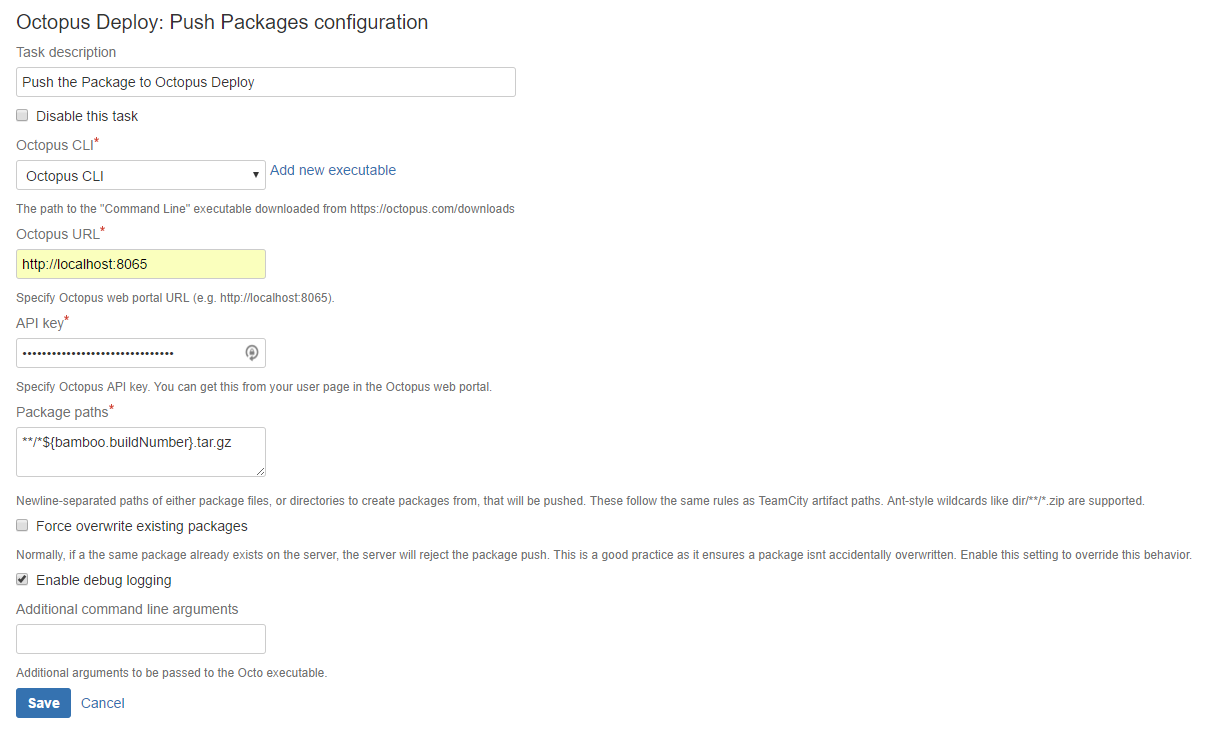
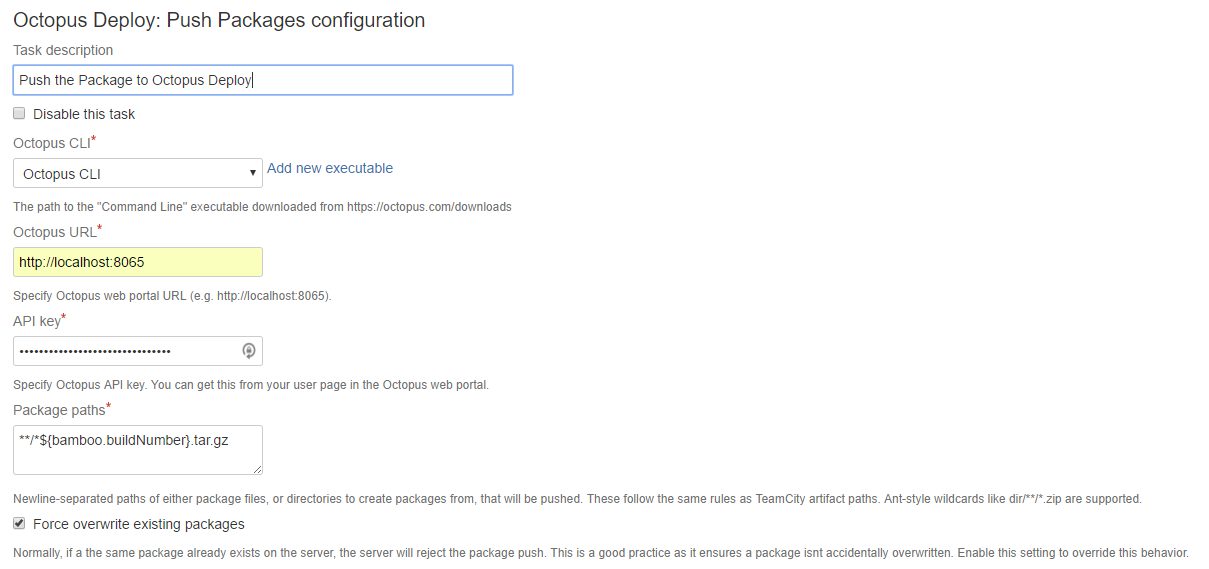
Working on documentation

Changed region(s): [[0.0, 0.0, 0.9793, 0.8366], [0.0, 0.8664, 0.9793, 0.9859], [0.2142, 0.2091, 0.3366, 0.239]]

diff --git a/docs/BambooPlugin.md b/docs/BambooPlugin.md
@@ -1,4 +1,4 @@
-The Octopus Deploy add-on for Bamboo allows packages to be uploaded to an Octopus Deploy server, as well as creating, deploying and promoting releases to your [environments](https://octopus.com/docs/key-concepts/environments). The add-on does this by running the [Octopus Deploy Command Line tool](https://octopus.com/docs/api-and-integration/octo.exe-command-line).
+The Octopus Deploy add-on for Bamboo allows packages to be uploaded to an Octopus Deploy server, as well as creating, deploying and promoting releases to your Octopus Deploy [environments](https://octopus.com/docs/key-concepts/environments). The add-on does this by running the [Octopus Deploy Command Line tool](https://octopus.com/docs/api-and-integration/octo.exe-command-line).
 
 # Getting Started
 
@@ -10,18 +10,19 @@ To verify that the command line tool can be run, execute it from a terminal. Whe
 
 # Installing the Add-on
 
-Following the instructions at [Installing add-ons](https://confluence.atlassian.com/display/UPM/Installing+add-ons) to install the Octopus Deploy Bamboo add-on.
+Follow the instructions at [Installing add-ons](https://confluence.atlassian.com/display/UPM/Installing+add-ons) to install the Octopus Deploy Bamboo add-on.
 
 TODO: Include some instructions about finding the Octopus Deploy add-on here (i.e. what do you search for).
 
 # A Typical Workflow for Pushing Packages and Deploying Releases
 
-There are a number of typical steps that are required to push a package to the Octopus Deploy and deploy a release:
+There are a number of typical steps that are required to push a package to Octopus Deploy and deploy a release:
 
 1. Build the application with Bamboo.
-2. Create an archive with a tool like tar or 7zip following the Octopus Deploy [versioning requirements](https://octopus.com/docs/packaging-applications/versioning-in-octopus-deploy).
-3. Push the package to Octopus Deploy using the add-on.
-4. Create and deploy a release.
+2. Create an archive with a tool like tar or 7zip complying with the Octopus Deploy [versioning requirements](https://octopus.com/docs/packaging-applications/versioning-in-octopus-deploy).
+3. Push the package to Octopus Deploy.
+4. Create a release in Octopus Deploy.
+5. Deploy a release with Octopus Deploy.
 
 Let's take a look at the steps that you could use to push a Java WAR file built with Maven to Octopus Deploy.
 
@@ -29,18 +30,18 @@ Let's take a look at the steps that you could use to push a Java WAR file built 
 We'll assume that there is already a Bamboo build plan in place that produces a WAR file using Maven. The [Bamboo Documentation](https://confluence.atlassian.com/bamboo/maven-289277038.html) describes how this is done.
 
 ## 2. Create the Package
-With the WAR file built, we need to add it to an archive that follows Octopus Deploy [versioning requirements](https://octopus.com/docs/packaging-applications/versioning-in-octopus-deploy). In this example we will stick to a simple Major.Minor.Patch semver format.
+With the WAR file built, we need to add it to an archive that complies with the Octopus Deploy [versioning requirements](https://octopus.com/docs/packaging-applications/versioning-in-octopus-deploy). In this example we will stick to a simple `AppName.Major.Minor.Patch` semver format.
 
-Creating the archive is done with a [Bamboo Script task](https://confluence.atlassian.com/bamboo/script-289277046.html) that calls an archive tool to generate an appropriately named archive file. Octopus Deploy supports a number of package types. See [Supported Packages in Octopus Deploy](https://octopus.com/docs/packaging-applications/supported-packages) for more information.
+Creating the archive is done with a [Bamboo Script task](https://confluence.atlassian.com/bamboo/script-289277046.html) that calls an archive tool to generate an appropriately named archive file. Octopus Deploy supports a number of package types; see [Supported Packages in Octopus Deploy](https://octopus.com/docs/packaging-applications/supported-packages) for more information.
 
-For Bamboo build agents hosts on a Linux server, the script body will call `tar` to create the archive. Note that we first enter the `target` directory and then create the archive. This is required to ensure the resulting gzip file does not include a `target` directory.
+For Bamboo build agents hosted on a Linux server, the script body can call `tar` to create the archive. Note that we first enter the `target` directory and then create the archive. This is required to ensure the resulting gzip file does not include the `target` directory, just the WAR file.
 
 ```
 cd target
 tar -czf ../myapplication.0.0.${bamboo.buildNumber}.tar.gz *.war
 ```
 
-For Bamboo build agents hosted on a Windows server, you may want to use a tool like [7Zip](http://www.7-zip.org/download.html) to build the archive, in which case the following command can be used. Note the leading `./` before the path to the war file is significant, as it removes the `target` directory from the resulting zip file. See [this discussion](https://stackoverflow.com/questions/10753667/compressing-only-files-using-7z-without-preserving-the-path) on StackOverflow for more information.
+For Bamboo build agents hosted on a Windows server, you may want to use a tool like [7Zip](http://www.7-zip.org/download.html) to build the archive, in which case the following command can be used. Note the leading `./` before the path to the WAR file is significant, as it removes the `target` directory from the resulting zip file. See [this discussion](https://stackoverflow.com/questions/10753667/compressing-only-files-using-7z-without-preserving-the-path) on StackOverflow for more information.
 
 ```
 "C:\Program Files\7-Zip\7z.exe" a -tzip myapplication.0.0.%bamboo_buildNumber%.zip ./target/*.war
@@ -50,19 +51,29 @@ In both cases we have used the variable `bamboo.buildNumber` to generate a packa
 
 ## 3. Push the Packages
 
-Pushing the package to Octopus Deploy is done with the `Octopus Deploy: Push Packages` task. In addition to the [common configuration fields](#commonConfiguration), this task requires the paths to the packages to be pushed.
+Pushing the package to Octopus Deploy is done with the `Octopus Deploy: Push Packages` task. In addition to the [common configuration fields](#commonConfiguration), this task requires the paths to the packages to be pushed and forcing package uploads.
+
+This step runs the [push command](https://octopus.com/docs/api-and-integration/octo.exe-command-line/pushing-packages) on the command line tool.
 
 ### Package paths
 
-The `Package paths` field defines the [Ant paths](https://ant.apache.org/manual/dirtasks.html) that are used to match packages to be pushed to Octopus Deploy. The Ant path `**/*${bamboo.buildNumber}.tar.gz` mathes the gzip package created with `tar`, while the path `**/*${bamboo.buildNumber}.zip` matches the zip file created with `7z`.
+The `Package paths` field defines the [Ant paths](https://ant.apache.org/manual/dirtasks.html) that are used to match packages to be pushed to Octopus Deploy. The Ant path `**/*${bamboo.buildNumber}.tar.gz` mathes the gzip file created with `tar`, while the path `**/*${bamboo.buildNumber}.zip` matches the zip file created with `7z`.
 
-Note that it is recommended that the package paths defined here are specific to the build. While the Ant path `**/*.tar.gz` or `**/*.zip` do match the packages, they also match any old packages that might have been created in previous builds and not cleaned up. This means these less specific paths can result in old packages being uploaded, which is usually not the desired result.
+Note that it is recommended that the package paths defined here are specific to the build. While the Ant paths `**/*.tar.gz` and `**/*.zip` do match the packages, they also match any old packages that might have been created in previous builds and not cleaned up. This means these less specific paths can result in old packages being uploaded, which is usually not the desired result.
+
+### Force overwrite existing packages
+
+The `Force overwrite existing packages` option can be selected to allow existing packages to be overwritten.
+
+Tick this option, as it allows a build to be rebuilt and the new package to be pushed again without error.
 
 ![Push Package](https://github.com/OctopusDeploy/Octopus-Bamboo/blob/master/docs/PushPackage.PNG?raw=true)
 
 ## 4. Create a Release
 
-Creating (and optionally deploying) a release is done with the `Octopus Deploy: Create Release` task. In addition to the [common configuration fields](#commonConfiguration), this task requires the Octopus Deploy project to create release in, the version number of the release, and optionally specifying an environment to deploy the release to.
+Creating a release is done with the `Octopus Deploy: Create Release` task. In addition to the [common configuration fields](#commonConfiguration), this task requires the Octopus Deploy project to create the release for and the version number of the release.
+
+This steps runs the [create-release command](https://octopus.com/docs/api-and-integration/octo.exe-command-line/creating-releases) on the command line tool.
 
 ### Project
 
@@ -72,19 +83,29 @@ The `Project` field defines the name of the [Octopus Deploy project](https://oct
 
 The `Release Number` field defines the version number for the release.
 
-Although this field is optional, it is highly recommended that the release number be tied to the Bamboo build number e.g. `0.0.${bamboo.buildNumber}`. The reason for this is Bamboo allows you to rebuild old builds, and if the `Release number` is not defined it will be assigned a default version number in Octopus Deploy. This can lead to a situation where a build like number 10 in Bamboo is rebuilt, and release number like 0.0.128 is created in Octopus Deploy, which is almost certainly not the desired result.
+Although this field is optional, it is highly recommended that the release number be tied to the Bamboo build number e.g. `0.0.${bamboo.buildNumber}`. The reason for this is Bamboo allows you to rebuild old builds, and if the `Release number` is not defined it will be assigned a default version number in Octopus Deploy. This can lead to a situation where build number 10 in Bamboo is rebuilt, and release number like 0.0.128 is created in Octopus Deploy, which is almost certainly not the desired result.
 
 ### Environment(s)
 
 The `Environment(s)` field defines the [Octopus Deploy environments](https://octopus.com/docs/key-concepts#KeyConcepts-Environments,machinesandroles) that the new release is to be deployed to.
 
-This field is optional, and if left blank will result in a release being created but not deployed.
+It is recommended that this field be left blank, because the `Ignore existing releases` option needs to be enabled to allow builds to be rebuilt, 
+and if the environment already exists and the `Ignore existing releases` option is enabled no deployments will take place. We'll use a dedicated
+step to handle deployments.
+
+### Ignore existing releases
+
+The `Ignore existing releases` option can be selected to skip the create release step if the release version already exists.
+
+Tick this option, as it allows builds to be rebuilt. Otherwise rebuilds will attempt to recreate an existing environment and the step will fail.
 
 ![Create Release](https://github.com/OctopusDeploy/Octopus-Bamboo/blob/master/docs/CreateRelease.PNG?raw=true)
 
-## (Optional) Deploy a Release
+## 5. Deploy a Release
 
 Releases can be deployed with the `Octopus Deploy: Deploy Release` task. In addition to the [common configuration fields](#commonConfiguration), this task requires the Octopus Deploy project to deploy, the environments to deploy to, and the release number to deploy.
+
+This steps runs the [deploy-release command](https://octopus.com/docs/api-and-integration/octo.exe-command-line/deploying-releases) on the command line tool.
 
 ### Project
 
@@ -104,7 +125,10 @@ The `Release Number` field defines the release version number to deploy.
 
 Releases can be promoted to new environments with the `Octopus Deploy: Promote Release` task. In addition to the [common configuration fields](#commonConfiguration), this task requires the Octopus Deploy project to deploy, the environment to promote from, and the environment to promote to.
 
-A word of warning with the promote task. Because the promotion from one environment to another is not tied to any particular release number, adding this task to a Bamboo build plan means every time the plan is run (or more importantly rerun), releases will be promoted between environments. This is almost certainly not the desired result. It is not recommended that promotions be done as part of a Bamboo build plan.
+This steps runs the [promote-release command](https://octopus.com/docs/api-and-integration/octo.exe-command-line/promoting-releases) on the command line tool.
+
+#### WARNING!
+Because the promotion from one environment to another is not tied to any particular release number, adding this task to a Bamboo build plan means every time the plan is run (or more importantly rerun), releases will be promoted between environments. This is almost certainly not the desired result, and so it is not recommended that promotions be done as part of a Bamboo build plan.
 
 ### Project
 
@@ -118,11 +142,10 @@ This `Promote from` field defines the environment whose release will be promoted
 
 This `Promote to` field defines the environment whose release will be promoted from the `Promote from` environment.
 
-![Promote Release](https://github.com/OctopusDeploy/Octopus-Bamboo/blob/master/docs/PromoteRelease.PNG?raw=true)
+<a name="commonConfiguration"></a>
+# Common Configuration
 
-# Common Configuration <a name="commonConfiguration"></a>
-
-All of the Octopus Deploy tasks share some common configuration fields.
+All of the Octopus Deploy tasks share a number of common configuration fields.
 
 #### Octopus URL
 
@@ -137,5 +160,68 @@ The `Octopus CLI` field references a [Bamboo capability](https://confluence.atla
 
 Click the `Add new executable` link to specify the location of the command line tool. The `Executable label` can be anything you want, and the `Path` is the full path to the command line tool executable file.
 
-TODO: Fix the labels here
 ![Add new executable](https://github.com/OctopusDeploy/Octopus-Bamboo/blob/master/docs/Executable.PNG?raw=true)
+
+#### Enable debug logging
+
+The `Enable debug logging` option is used to enable detailed logging from the command line tool.
+
+#### Additional command line arguments
+
+The `Additional command line arguments` field is used to specify additional arguments to pass to the command line tool.
+You can find more information on the arguments accepted by the command line tool at the 
+[Octo.exe Command Line](https://octopus.com/docs/api-and-integration/octo.exe-command-line) page.
+
+# Using Bamboo Deployment Plans
+
+The Octopus Deploy add-on tasks can be used either in Bamboo build or deployment plans. Where you use these tasks is up to you.
+
+If you already have a number of environments set up in Bamboo, it may make sense to create and deploy Octopus Deploy releases from the Bamboo deployment plan. Doing so allows you to retain the familiar Bamboo build and deployment workflow, while having Octopus Deploy do the actual deployment.
+
+The recommended task sequence for a deployment project in Bamboo is this:
+1. A `Octopus Deploy: Push Packages` task in the Bamboo build plan with a package version number linked to the Bamboo build number and the `Force overwrite existing packages` selected.
+1. A `Octopus Deploy: Create Release` task in the Bamboo deployment plan with a `Release number` linked to the Bamboo build number, the `Ignore existing releases` option selected, and no `Environments(s)` set to deploy to.
+2. A `Octopus Deploy: Deploy Release` task in the Bamboo deployment plan with a `Release number` linked to the Bamboo build number.
+
+These steps will allow packages to be pushed and repushed, and new releases to be created, deployed and rolled back to previous releases.
+
+# Troubleshooting
+
+## Unexpected Behaviour in Deployment Plans
+There are some issues to keep in mind when using the Octopus Deploy add-on tasks from a Bamboo deployment project.
+
+The first issue is that the `Octopus Deploy: Create Release` task is only suitable for creating and optionally deploying new releases, not rolling back to previous releases. Consider these following scenarios:
+1. The create release task is defined with no release number. Each time it is run, or rerun via a rollback initiated via the Bamboo deployment project, this task will create a new release in Octopus Deploy. This is not appropriate behaviour for a Bamboo deployment project.
+2. The create release task is defined with a fixed release number related to the Bamboo build. To allow this task to be rerun without error, the `Ignore existing releases` option needs to be selected. When `Ignore existing releases` is selected, the create release task is essentially skipped during a rerun, meaning no deployment is done. This is not the expected behaviour of a rollback initiated via the Bamboo deployment project.
+
+The second issue is that the `Octopus Deploy: Promote Release` task may not work as you expect when used with a Bamboo deployment plan. Because the promotion from one environment to another is not dependent on any release versions, every time this step is run it will attempt to promote a release forward in Octopus Deploy, even if the task was run as part of a rollback.
+
+For this reason it is recommended that the promote release task not be used as part of either a Bamboo build or deployment plan.
+
+## Octopus Command Line Tool Failed to Run in Linux
+
+The Octopus Command Line tool packages for Linux are relatively self contained, but depending on your Linux distribution you may need to install some additional dependencies for the command line tool to run.
+
+For example, in Centos 7 you might see this error:
+
+```
+Failed to load /tmp/libcoreclr.so, error: libunwind.so.8: cannot open shared object file: No such file or directory
+Failed to bind to CoreCLR at '/tmp/libcoreclr.so'
+```
+
+The solution is to install the packages detailed at the [Get started with .NET Core](https://www.microsoft.com/net/core) website.
+
+```
+sudo yum install libunwind libicu
+```
+
+## Manually Running the Command Line Tool
+
+The Bamboo build logs show how the command line tool is run. Look for log messages like this:
+
+```
+running command line: \n/opt/octocli/Octo push --server http://localhost --apiKey API-....................QGWUHKO --replace-existing --debug --package /opt/atlassian-bamboo-6.0.0/xml-data/build-dir/BPT-TBD-JOB1/myapplication.0.0.5.tar.gz
+```
+
+This is the command that was run to perform the actual interaction with the Octopus Deploy server, with the exception of the
+redacted API key. You can take this command and run it manually to help diagnose any issues.
